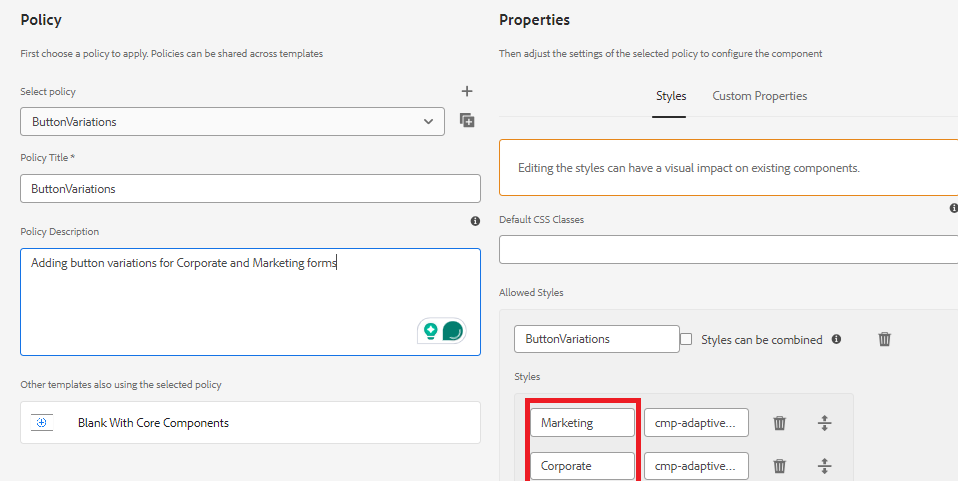
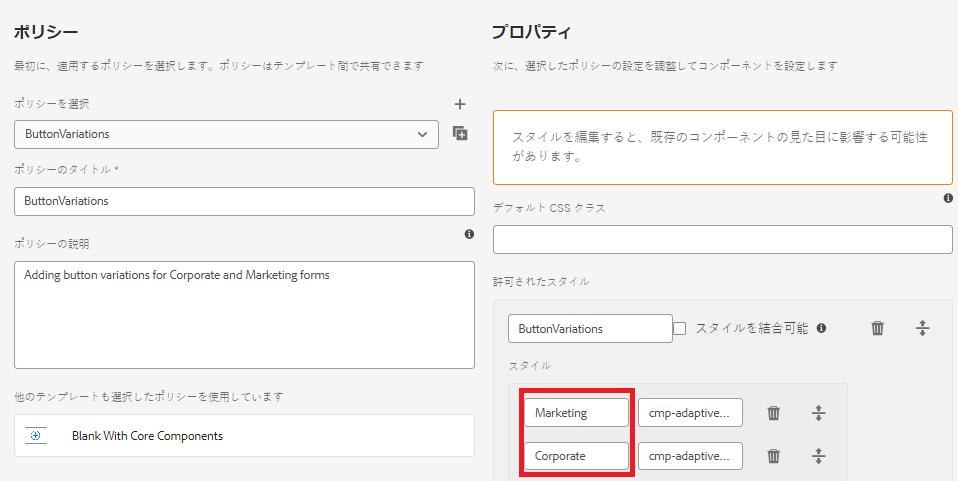
Updated by task 'AUTO_HANDOFF_1729087951137'  Changes for core/source commit https://git.corp.adobe.com/AdobeDocs/experience-manager-learn.en/commit/ede52c6c9feb0b35bc3729e28591cb4e7c7600f7

diff --git a/help/sites/integrations/platform/fpid.md b/help/sites/integrations/platform/fpid.md
@@ -14,15 +14,15 @@ badgeVersions: label="AEM Sites as a Cloud Service、AEM Sites 6.5" before-title
 exl-id: 18a22f54-da58-4326-a7b0-3b1ac40ea0b5
 duration: 266
 source-git-commit: c638c1e012952f2f43806a325d729cde088ab9f5
-workflow-type: tm+mt
+workflow-type: ht
 source-wordcount: '1015'
-ht-degree: 85%
+ht-degree: 100%
 
 ---
 
 # AEM Sites を使用した Experience Platform FPID の生成
 
-AEM Publishを介して配信されるAdobe Experience Manager（AEM）サイトをAdobe Experience Platform AEM（AEP）と統合するには、ユーザーアクティビティを一意に追跡するために、一意のファーストパーティデバイス ID （FPID） cookie を生成し、維持する必要があります。
+AEM Publish 経由で配信される Adobe Experience Manager（AEM）Sites と Adobe Experience Platform（AEP）を統合するには、AEM が、ユーザーアクティビティを一意に追跡するために一意のファーストパーティデバイス ID（FPID）Cookie を生成し維持管理する必要があります。
 
 サポートドキュメントを読んで、[ファーストパーティデバイス ID と Experience Cloud ID の連携方法の詳細をご確認ください](https://experienceleague.adobe.com/docs/platform-learn/data-collection/edge-network/generate-first-party-device-ids.html?lang=ja)。
 
@@ -55,7 +55,7 @@ FPID の一意性要件を組み合わせると、これらのリソースがキ
 
 ### AEM Publish FPID cookie サーブレット
 
-FPID cookie を生成または拡張するには、[Sling サーブレット ](https://sling.apache.org/documentation/the-sling-engine/servlets.html#registering-a-servlet-using-java-annotations-1) を使用してAEM Publish HTTP エンドポイントを作成する必要があります。
+FPID cookie を生成または拡張するには、[Sling サーブレット](https://sling.apache.org/documentation/the-sling-engine/servlets.html#registering-a-servlet-using-java-annotations-1)を使用して AEM Publish HTTP エンドポイントを作成する必要があります。
 
 + アクセスに認証が必要ないため、サーブレットは `/bin/aem/fpid` にバインドされています。認証が必要な場合は、Sling リソースタイプにバインドします。
 + このサーブレットは、HTTP GET リクエストを受け入れます。 応答はキャッシュを防ぐために `Cache-Control: no-store` でマークされていますが、このエンドポイントは一意のキャッシュ無効化クエリパラメーターも使用してリクエストする必要があります。
@@ -67,7 +67,7 @@ HTTP リクエストがサーブレットに到達すると、サーブレット
 
 次に、サーブレットは FPID を `{ fpid: "<FPID VALUE>" }` フォームの JSON オブジェクトとして応答に書き込みます。
 
-FPID cookie は `HttpOnly` とマークされているため、FPID を本文でクライアントに提供することが重要です。これは、サーバーのみがその値を読み取ることができ、クライアントサイドのJavaScriptは読み取れないことを意味します。 ページの読み込み時に FPID が不必要に再取得されるのを避けるために、`FPID_CLIENT` cookie も設定されます。これは、FPID が生成され、使用するためにその値がクライアントサイドJavaScriptに公開されることを示します。
+FPID Cookie は `HttpOnly` とマークされているため、FPID を本文でクライアントに提供することが重要です。これは、サーバーのみがその値を読み取ることができ、クライアントサイドの JavaScript は読み取れないことを意味します。ページの読み込み時に FPID が不必要に再取得されるのを避けるために、`FPID_CLIENT` Cookie も設定されます。これは、FPID が生成されたことを示し、その値をクライアントサイドの JavaScript に公開して使用できるようにします。
 
 FPID 値は、Platform Web SDK を使用して呼び出しをパラメーター化するために使用されます。
 
@@ -159,7 +159,7 @@ public class FpidServlet extends SlingAllMethodsServlet {
 
 カスタムのクライアントサイド JavaScript をページに追加して、サーブレットを非同期的に呼び出し、FPID cookie を生成または更新して、応答で FPID を返す必要があります。
 
-このJavaScript スクリプトは、通常、次のいずれかのメソッドを使用してページに追加されます。
+この JavaScript スクリプトは、通常、次のいずれかのメソッドを使用して、ページに追加されます。
 
 + [Adobe Experience Platform のタグ](https://experienceleague.adobe.com/docs/experience-platform/tags/home.html?lang=ja)
 + [AEM クライアントライブラリ](https://experienceleague.adobe.com/docs/experience-manager-cloud-service/content/implementing/developing/full-stack/clientlibs.html?lang=ja)

diff --git a/help/cloud-service/forms/style-system/build.md b/help/cloud-service/forms/style-system/build.md
@@ -1,6 +1,6 @@
 ---
-title: AEM Formsでのスタイルシステムの使用
-description: テーマプロジェクトの構築
+title: AEM Forms でのスタイルシステムの使用
+description: テーマプロジェクトの作成
 solution: Experience Manager, Experience Manager Forms
 type: Documentation
 role: Developer
@@ -11,23 +11,23 @@ feature: Adaptive Forms
 badgeVersions: label="AEM Forms as a Cloud Service" before-title="false"
 jira: KT-16276
 source-git-commit: 86d282b426402c9ad6be84e9db92598d0dc54f85
-workflow-type: tm+mt
+workflow-type: ht
 source-wordcount: '219'
-ht-degree: 2%
+ht-degree: 100%
 
 ---
 
 
-# 変更のテスト
+# 変更内容のテスト
 
-「コアコンポーネントを使用した空白 **テンプレートに基づいてアダプティブフォーム** 作成します。 フォームに 3 つのボタンをドラッグ&amp;ドロップし、「Corporate」、「Marketing」、「Default」というラベルを付けます。
-図のようにペイントブラシを選択して、適切なスタイルバリアントを企業ボタンとマーケティングボタンに割り当てます
+**「コアコンポーネントを含む空白」**テンプレートに基づいてアダプティブフォームを作成。フォームに 3 つのボタンをドラッグ＆ドロップし、「Corporate」、「Marketing」、「Default」というラベルを付けます。
+図のようにペイントブラシを選択して、企業ボタンとマーケティングボタンに適切なスタイルバリアントを割り当てます
 
-![ スタイル ](assets/marketing-variation.png)
+![styles](assets/marketing-variation.png)
 
-## テーマプロジェクトの構築
+## テーマプロジェクトの作成
 
-次の手順では、テーマプロジェクトを構築します。 テーマプロジェクトのルートフォルダーに移動し、次のスクリーンショットに示すように、コマンド _**npm run build**_ を実行します
+次の手順では、テーマプロジェクトを作成します。テーマプロジェクトのルートフォルダーに移動し、次のスクリーンショットに示すように、コマンド「_**npm run build**_」を実行します
 
 ![build-theme](assets/build-theme.png)
 
@@ -37,11 +37,11 @@ ht-degree: 2%
 
 * テーマプロジェクトの dist フォルダーにある theme.css ファイルを開きます。ファイルの内容をすべて選択してコピーします。
 * 前の手順で作成したフォームをプレビューします。
-* いずれかのボタンを右クリックし、「Inspect」を選択してデベロッパーコンソールを開きます。
-* 開発者コンソールで theme.css をクリックし、theme.css を開きます。
+* いずれかのボタンを右クリックし、「Inspect」を選択して Developer Console を開きます。
+* Developer Console で theme.css をクリックし、theme.css を開きます
 * CTR-A を使用して theme.css のコンテンツ全体を選択して削除し、「削除」ボタンを押します。
 * 前の手順で作成した theme.css のコンテンツをコピーして貼り付けます。
-* ボタンは、次に示すような適切なスタイルで更新される必要があります。
+* ボタンは、次に示すように適切なスタイルで更新されます。
 
-![ 最終ボタン ](assets/final-state-buttons.png)
+![final-buttons](assets/final-state-buttons.png)
 

diff --git a/help/cloud-service/forms/style-system/style-policy.md b/help/cloud-service/forms/style-system/style-policy.md
@@ -1,5 +1,5 @@
 ---
-title: AEM Formsでのスタイルシステムの使用
+title: AEM Forms でのスタイルシステムの使用
 description: ボタンコンポーネントのスタイルポリシーの定義
 solution: Experience Manager, Experience Manager Forms
 type: Documentation
@@ -11,35 +11,35 @@ feature: Adaptive Forms
 badgeVersions: label="AEM Forms as a Cloud Service" before-title="false"
 jira: KT-16276
 source-git-commit: 86d282b426402c9ad6be84e9db92598d0dc54f85
-workflow-type: tm+mt
+workflow-type: ht
 source-wordcount: '139'
-ht-degree: 10%
+ht-degree: 100%
 
 ---
 
-# コンポーネントのポリシーでのスタイルの定義
+# コンポーネントのポリシーでスタイルを定義する
 
-* ローカルクラウド対応AEM インスタンスにログインし、「ツール」に移動します。 |一般 | テンプレート |自分のプロジェクト名。
+* ローカルクラウド対応 AEM インスタンスにログインし、ツール／一般／テンプレート／プロジェクト名の順に移動します。
 
-* **コアコンポーネントを使用した空白** テンプレートを選択し、編集モードで開きます。
+* **コアコンポーネントを含む空白**&#x200B;テンプレートを選択し、編集モードで開きます。
 * ボタンコンポーネントの「ポリシー」アイコンをクリックして、ポリシーエディターを開きます。
 
 * ![button-policy](assets/button-policy.png)
 
-次のようにポリシーを定義します
+次に示すように、ポリシーを定義します
 
 ![button-policy-details](assets/styling-policy.png)
 
-マーケティングおよび企業と呼ばれる 2 つのスタイル/バリエーションを定義しました。これらのバリエーションは、対応する CSS クラスに関連付けられています。**CSS クラス名の前後にスペースがないようにしてください**。
+Marketing と Corporate という 2 つのスタイル／バリエーションを定義しました。これらのバリエーションは、対応する CSS クラスに関連付けられています。**CSS クラス名の前後にスペースが入らないようにしてください**。
 変更を保存します。
 
 | スタイル | CSS クラス |
 |-----------|------------------------------------|
-| マーケティング | cmp-adaptiveform-button—marketing |
-| 企業 | cmp-adaptiveform-button—corporate |
+| マーケティング | cmp-adaptiveform-button--marketing |
+| Corporate | cmp-adaptiveform-button--corporate |
 
 これらの CSS クラスは、コンポーネントの scss ファイル（_button.scss）で定義されます。
 
 ## 次の手順
 
-[CSS クラスの定義](./create-variations.md)
+[デフォルト CSS クラス](./create-variations.md)

diff --git a/help/cloud-service/TOC.md b/help/cloud-service/TOC.md
@@ -7,9 +7,9 @@ sub-product: Experience Manager as a Cloud Service
 version: Cloud Service
 team: TM
 source-git-commit: 86d282b426402c9ad6be84e9db92598d0dc54f85
-workflow-type: tm+mt
+workflow-type: ht
 source-wordcount: '1307'
-ht-degree: 99%
+ht-degree: 100%
 
 ---
 
@@ -258,7 +258,7 @@ ht-degree: 99%
    + アドレスブロックコンポーネントの作成{#create-address-block}
       + [1 - はじめに](./forms/create-address-block-component/introduction.md)
       + [2 - 設定](./forms/create-address-block-component/set-up.md)
-      + [2 - コンポーネントの作成](./forms/create-address-block-component/creating-address-component.md)
+      + [3 - コンポーネントの作成](./forms/create-address-block-component/creating-address-component.md)
       + [4 - コンポーネントのデプロイ](./forms/create-address-block-component/deploy-your-project.md)
    + クリック可能な画像コンポーネントの作成{#clickable-image-component}
       + [1 - はじめに](./forms/clickable-image-component/introduction.md)
@@ -269,11 +269,11 @@ ht-degree: 99%
       + [データ要素の作成](./forms/form-data-analytics/data-elements.md)
       + [ルールの作成](./forms/form-data-analytics/rules.md)
       + [ソリューションのテスト](./forms/form-data-analytics/test.md)
-   + ボタンのバリエーションの作成 {#style-system}
+   + ボタンのバリエーションの作成{#style-system}
       + [はじめに](./forms/style-system/introduction.md)
       + [ポリシーの定義](./forms/style-system/style-policy.md)
       + [バリエーションの定義](./forms/style-system/create-variations.md)
-      + [テストのバリエーション](./forms/style-system/build.md)
+      + [バリエーションのテスト](./forms/style-system/build.md)
    + 垂直タブの使用{#using-vertical-tabs}
       + [1. はじめに](./forms/using-vertical-tabs/introduction.md)
       + [2. フォームの作成](./forms/using-vertical-tabs/create-af.md)

diff --git a/help/assets-essentials/basics/managing.md b/help/assets-essentials/basics/managing.md
@@ -1,5 +1,5 @@
 ---
-title: Assets ビューでのアセットの管理
+title: アセットビューでのアセットの管理
 description: フォルダー構造の作成の基本と、移動、コピー、名前変更などの基本的な操作について説明します。
 version: Cloud Service
 topic: Content Management
@@ -12,14 +12,14 @@ doc-type: Feature Video
 exl-id: 394fc981-9593-492d-9961-b81a627730b1
 duration: 730
 source-git-commit: b87a2e9d740ad4acafdaa159fcf9835125798ab2
-workflow-type: tm+mt
+workflow-type: ht
 source-wordcount: '45'
-ht-degree: 37%
+ht-degree: 100%
 
 ---
 
-# Assets ビューでのアセットの管理
+# アセットビューでのアセットの管理
 
-フォルダー構造の作成の基本、移動、コピー、名前変更などの基本的な操作、コレクションについて説明します。
+フォルダー構造の作成の基本と、移動、コピー、名前変更、コレクションなどの基本的な操作について説明します。
 
 >[!VIDEO](https://video.tv.adobe.com/v/335733?quality=12&learn=on)

diff --git a/help/cloud-service/expert-resources/cloud-5/season-3/cloud5-lighthouse-score-optimization-part3.md b/help/cloud-service/expert-resources/cloud-5/season-3/cloud5-lighthouse-score-optimization-part3.md
@@ -13,7 +13,7 @@ jira: KT-16300
 hidefromtoc: true
 recommendations: noDisplay, noCatalog
 source-git-commit: 5e7ed607cae211f989ed50c10ae3be47876868cf
-workflow-type: tm+mt
+workflow-type: ht
 source-wordcount: '54'
 ht-degree: 100%
 
